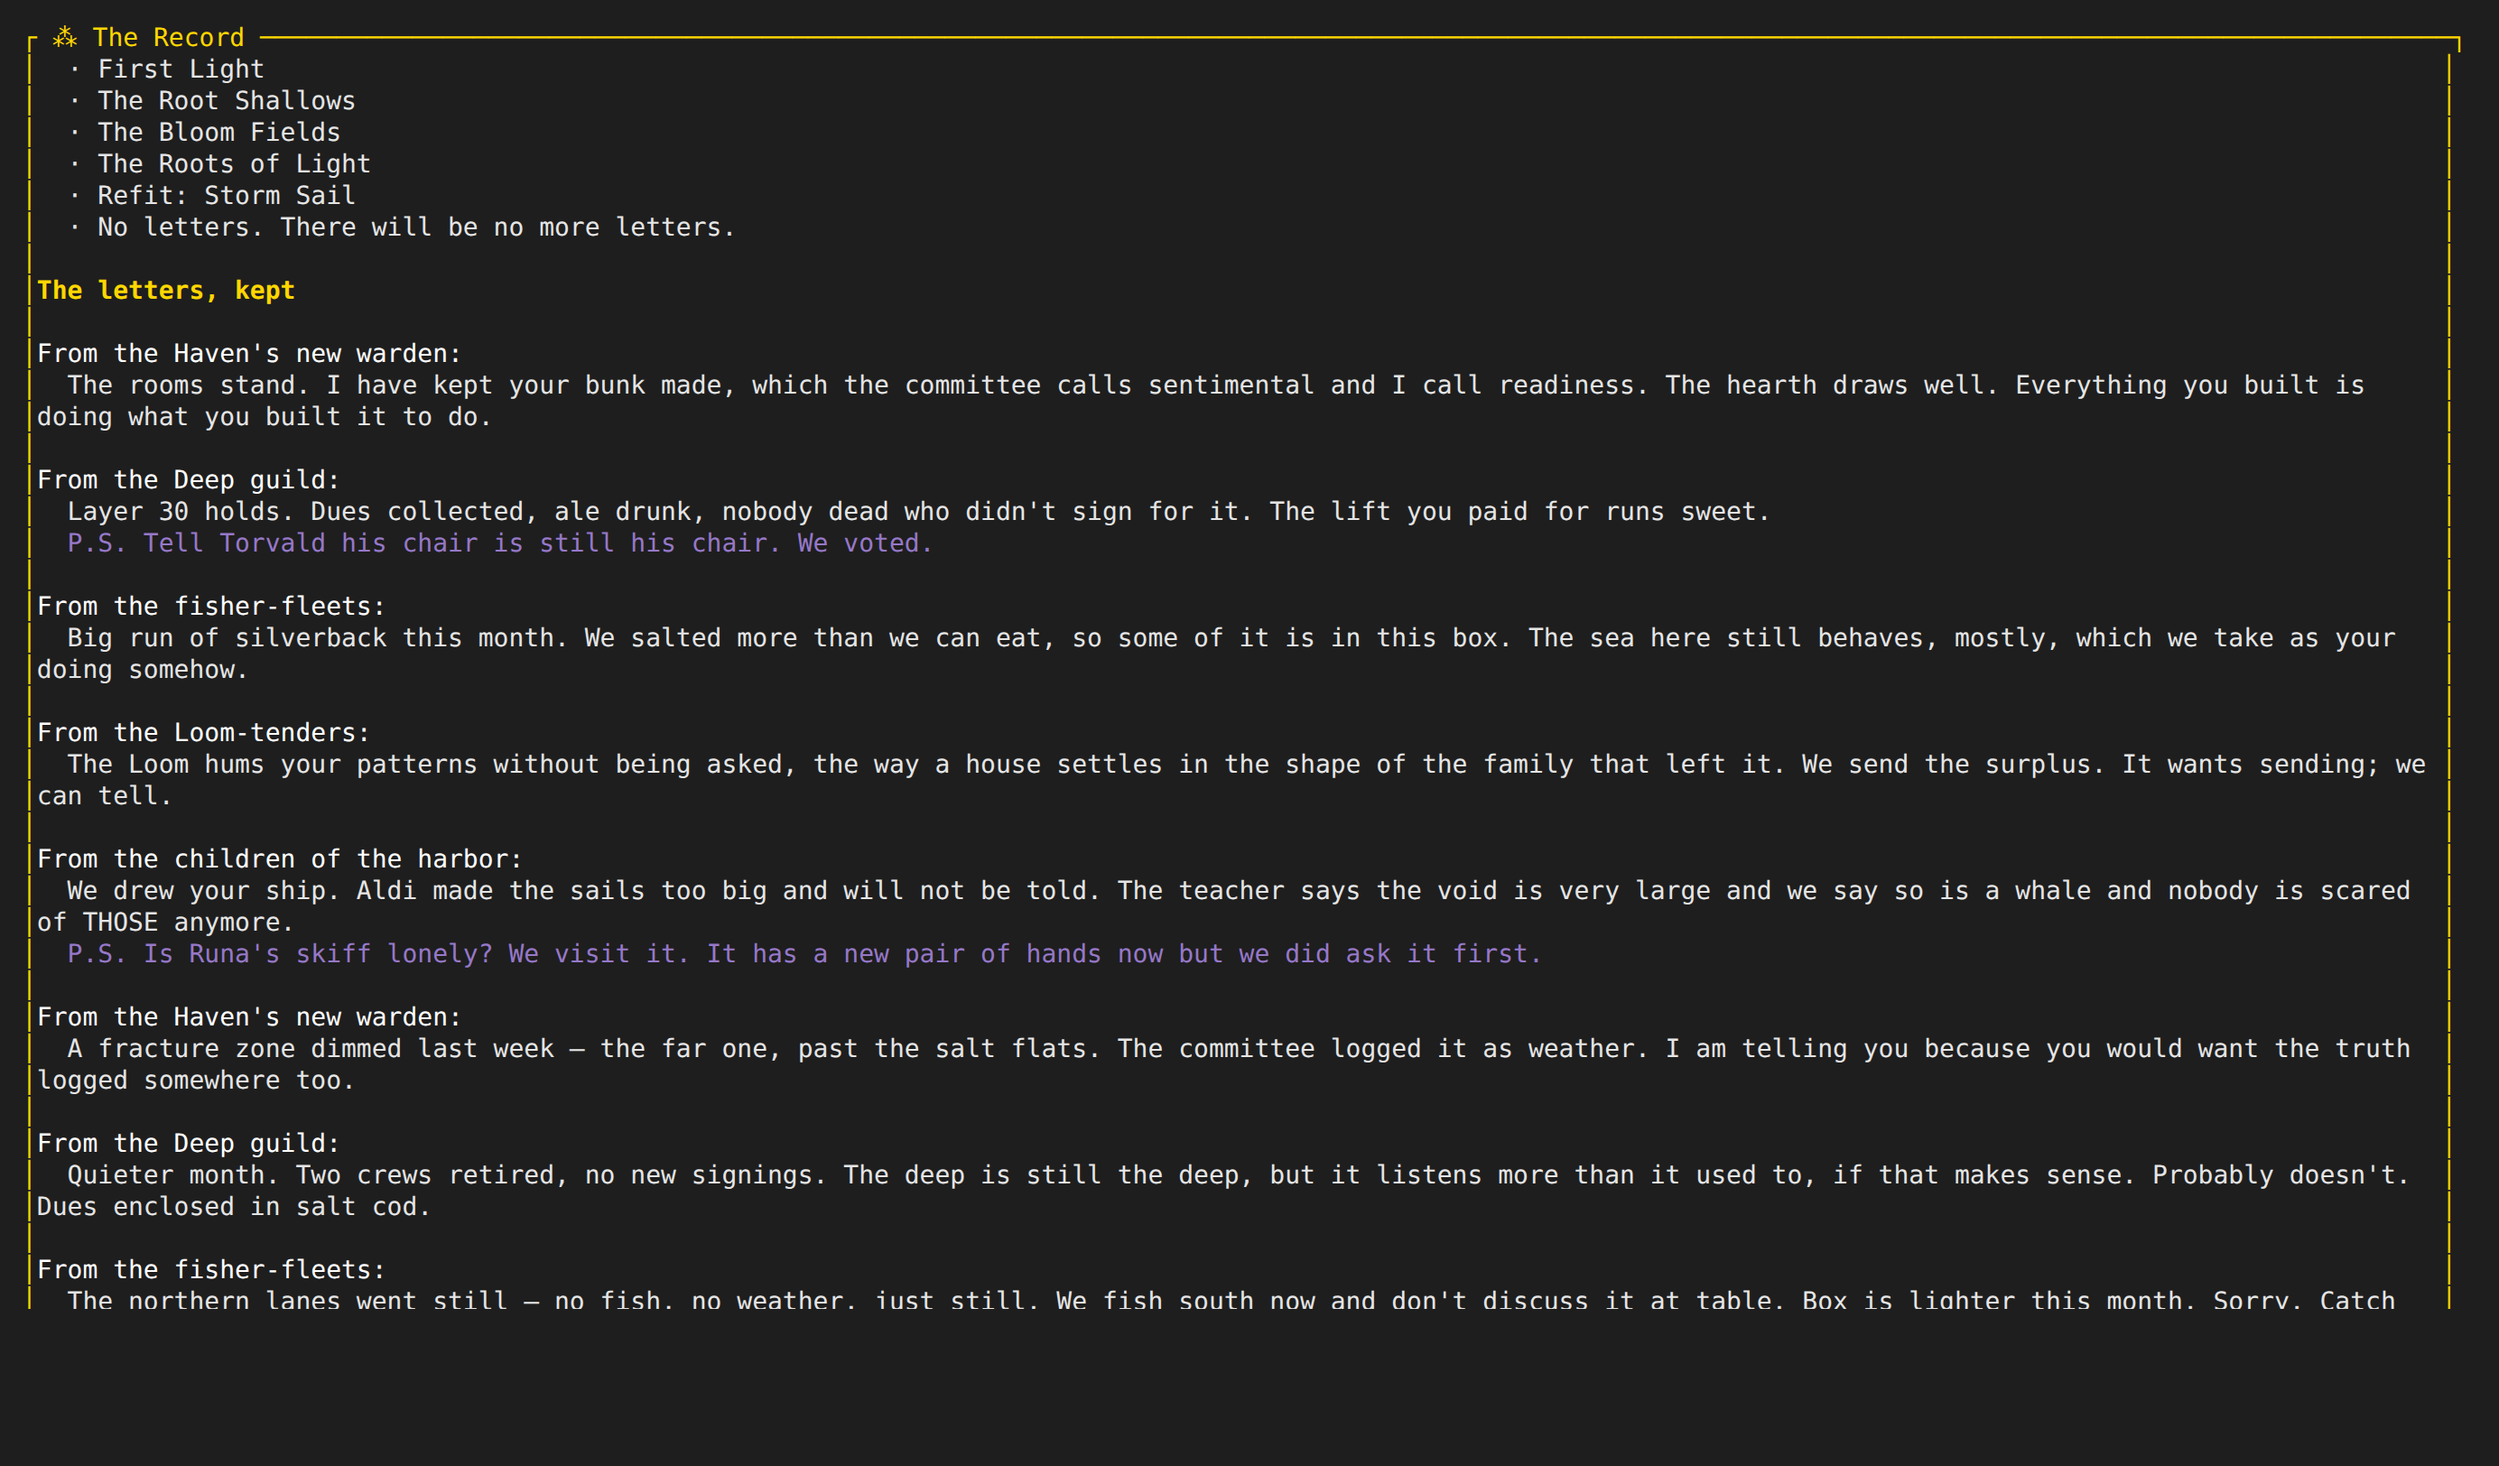
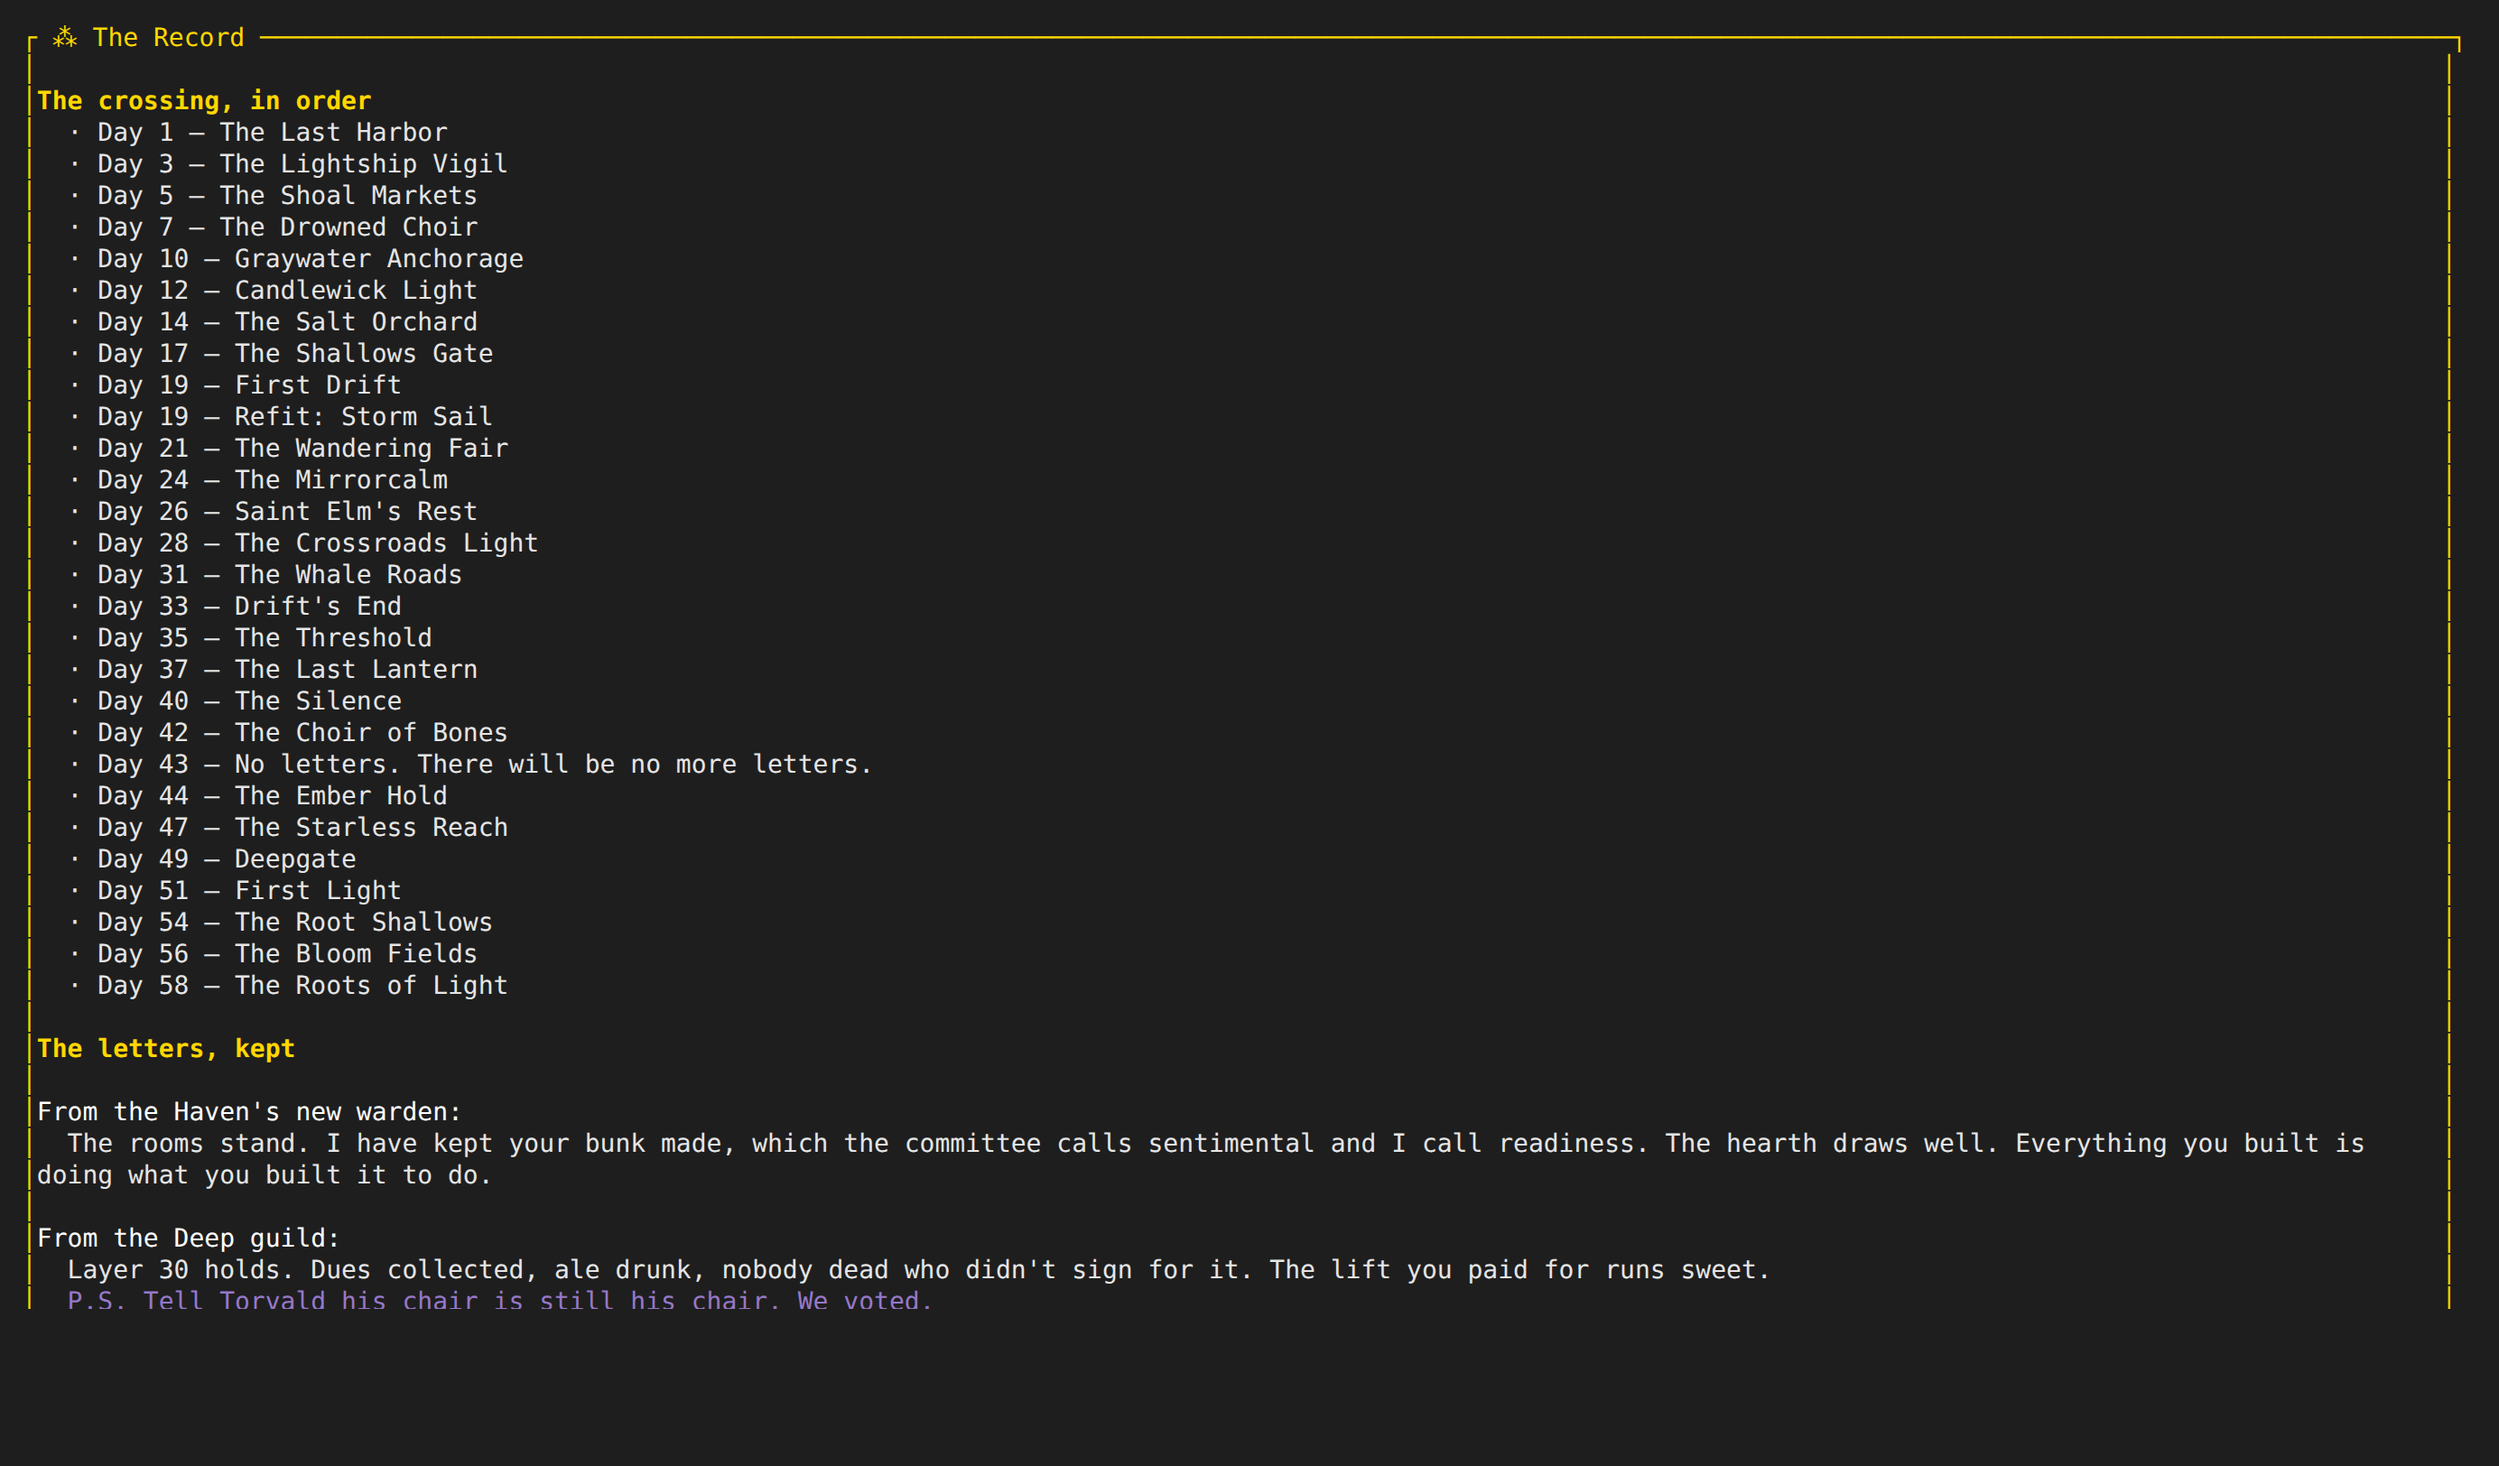
Act 2 spec 7: stamp every log entry with its voyage day
The log becomes Vec<LogEntry> — an untagged enum whose Dated variant
carries the day the line was written (all engine writes go through a
push_log helper reading day_index()), and whose Undated variant keeps
pre-spec-7 saves loading cleanly: bare strings deserialize as
day-unknown and render without a stamp. The Log panel and the Record
show "Day N — entry"; day numbering matches the vessel panel's
1-based display.

Tests: a real crossing writes only dated, non-decreasing entries
starting day 0; old string-array logs load undated and a mixed log
round-trips. The arrived fixture spreads its spine over ~60 days with
the refit and mail-fails beats woven in order.

Claude-Session: https://claude.ai/code/session_01WdCoxZ8TWyPjKwE5zssj5C

diff --git a/src/vessel/voyage.rs b/src/vessel/voyage.rs
@@ -198,6 +198,32 @@ pub struct SoulEvent {
     pub beat: u8,
 }
 
+/// One line of the ship's log, stamped with the voyage day it was
+/// written. Untagged so pre-spec-7 saves — bare strings — still load;
+/// their day is simply unknown.
+#[derive(Debug, Clone, PartialEq, Eq, Serialize, Deserialize)]
+#[serde(untagged)]
+pub enum LogEntry {
+    Dated { day: u64, text: String },
+    Undated(String),
+}
+
+impl LogEntry {
+    pub fn text(&self) -> &str {
+        match self {
+            LogEntry::Dated { text, .. } => text,
+            LogEntry::Undated(text) => text,
+        }
+    }
+
+    pub fn day(&self) -> Option<u64> {
+        match self {
+            LogEntry::Dated { day, .. } => Some(*day),
+            LogEntry::Undated(_) => None,
+        }
+    }
+}
+
 /// A resolved scene, ready to read: title, paragraphs (beats + matching
 /// color lines + ledger lines), and the payout in small print.
 #[derive(Debug, Clone, PartialEq, Eq)]
@@ -280,9 +306,10 @@ pub struct VoyageState {
     /// Mementos. No mechanics; the manifest remembers (spec 7).
     #[serde(default)]
     pub keepsakes: Vec<String>,
-    /// The crossing's story so far: one title per scene and beat.
+    /// The crossing's story so far: one line per scene and beat, each
+    /// stamped with the voyage day it was written.
     #[serde(default)]
-    pub log: Vec<String>,
+    pub log: Vec<LogEntry>,
     /// The leg that is underway (or just ended) included a drift.
     #[serde(default)]
     pub drifted_this_leg: bool,
@@ -506,7 +533,7 @@ impl VoyageState {
                                 if !self.heard_banks.contains(&wx.id) {
                                     self.heard_banks.push(wx.id);
                                     if self.grant_next_rumor(road.from) {
-                                        self.log.push(format!(
+                                        self.push_log(format!(
                                             "In {}, running Quiet, the crew heard \
                                              what the silence was hiding.",
                                             wx.name
@@ -636,7 +663,7 @@ impl VoyageState {
                 // The crew gathers at mail-hour, and nothing comes.
                 self.gone_dark = true;
                 self.lower_hope(MAIL_FAILS_HOPE_COST);
-                self.log.push(letters::MAIL_FAILS_LOG.to_string());
+                self.push_log(letters::MAIL_FAILS_LOG.to_string());
                 self.letter_events.push(MAIL_FAILS_EVENT);
             }
         }
@@ -828,7 +855,7 @@ impl VoyageState {
         }
 
         let title = route::waypoint(waypoint).name.to_string();
-        self.log.push(title.clone());
+        self.push_log(title.clone());
         self.drifted_this_leg = false;
 
         Some(ScenePlayback {
@@ -993,7 +1020,7 @@ impl VoyageState {
         }
         self.refit_doors_seen += 1;
         self.pending_refit = None;
-        self.log.push(format!("Refit: {}", chosen.display_name()));
+        self.push_log(format!("Refit: {}", chosen.display_name()));
         Some(chosen)
     }
 
@@ -1010,7 +1037,7 @@ impl VoyageState {
         let def = scenes::scene_def(ROUTE_SINK);
         self.hope = (self.hope + def.payout.hope.max(0) as u8).min(HOPE_MAX);
         let title = route::waypoint(ROUTE_SINK).name.to_string();
-        self.log.push(title.clone());
+        self.push_log(title.clone());
 
         let mut paragraphs: Vec<String> = def.beats.iter().map(|b| b.to_string()).collect();
         // The rail: souls who stepped ashore earlier said their goodbyes
@@ -1146,7 +1173,7 @@ impl VoyageState {
         if def.hope > 0 {
             self.hope = (self.hope + def.hope).min(HOPE_MAX);
         }
-        self.log.push(format!("A letter from {}", def.sender));
+        self.push_log(format!("A letter from {}", def.sender));
         self.letter_events.push(event);
     }
 
@@ -1247,7 +1274,7 @@ impl VoyageState {
             // Nothing left to learn: the night pays in spirits instead.
             self.hope = (self.hope + 1).min(HOPE_MAX);
         }
-        self.log.push(nights::log_line(kind, outcome, name));
+        self.push_log(nights::log_line(kind, outcome, name));
     }
 
     /// Learn the next authored rumor not yet held (weather, nights, and
@@ -1303,8 +1330,7 @@ impl VoyageState {
         self.hailed.push(ship.id);
         let at = self.current_road().map(|r| r.from).unwrap_or(ROUTE_START);
         self.grant_next_rumor(at);
-        self.log
-            .push(format!("Hailed {}. {}", ship.name, ship.hail));
+        self.push_log(format!("Hailed {}. {}", ship.name, ship.hail));
         Some(ship)
     }
 
@@ -1475,6 +1501,12 @@ impl VoyageState {
     /// Days since launch (the seed input for Underway determinism).
     pub fn day_index(&self) -> u64 {
         self.processed_minutes / MINUTES_PER_DAY
+    }
+
+    /// Write a line into the ship's log, stamped with today.
+    fn push_log(&mut self, text: String) {
+        let day = self.day_index();
+        self.log.push(LogEntry::Dated { day, text });
     }
 
     /// Game minutes until arrival at the current trim, if traveling.

diff --git a/src/ui/voyage_scene.rs b/src/ui/voyage_scene.rs
@@ -1075,7 +1075,7 @@ fn render_rumor_panel(frame: &mut Frame, area: Rect, voyage: &VoyageState) {
         voyage
             .log
             .iter()
-            .filter(|l| l.starts_with("A letter from"))
+            .filter(|l| l.text().starts_with("A letter from"))
             .count(),
     );
     if letters_kept > 0 || voyage.gone_dark {
@@ -1098,9 +1098,9 @@ fn render_rumor_panel(frame: &mut Frame, area: Rect, voyage: &VoyageState) {
                 .add_modifier(Modifier::BOLD),
         )));
         let recent = voyage.log.len().saturating_sub(8);
-        for title in &voyage.log[recent..] {
+        for entry in &voyage.log[recent..] {
             lines.push(Line::from(Span::styled(
-                format!("  \u{00b7} {title}"),
+                format!("  \u{00b7} {}", log_entry_line(entry)),
                 Style::default().fg(Color::Gray),
             )));
         }
@@ -1747,7 +1747,7 @@ fn render_record(frame: &mut Frame, area: Rect, voyage: &VoyageState, scroll: u1
     )));
     for entry in &voyage.log {
         lines.push(Line::from(Span::styled(
-            format!("  \u{00b7} {entry}"),
+            format!("  \u{00b7} {}", log_entry_line(entry)),
             Style::default().fg(Color::Gray),
         )));
     }
@@ -1852,6 +1852,15 @@ fn current_chapter(voyage: &VoyageState) -> route::Chapter {
 /// The most recently reached waypoint (for chapter/tree-stage display).
 fn last_position(voyage: &VoyageState) -> WaypointId {
     voyage.visited.last().copied().unwrap_or(route::ROUTE_START)
+}
+
+/// A log line with its day, when the entry knows one (pre-spec-7 saves
+/// carry undated lines).
+fn log_entry_line(entry: &crate::vessel::voyage::LogEntry) -> String {
+    match entry.day() {
+        Some(day) => format!("Day {} \u{2014} {}", day + 1, entry.text()),
+        None => entry.text().to_string(),
+    }
 }
 
 fn format_minutes(minutes: u64) -> String {

diff --git a/tests/arrival_tests.rs b/tests/arrival_tests.rs
@@ -188,6 +188,42 @@ fn the_act_three_gate_defaults_closed_and_persists() {
 }
 
 #[test]
+fn the_log_keeps_time() {
+    let v = cross();
+    // Every line a real crossing writes knows its day, and the days
+    // never run backwards.
+    let mut last_day = 0;
+    assert!(!v.log.is_empty());
+    for entry in &v.log {
+        let day = entry.day().expect("new entries are dated");
+        assert!(day >= last_day, "the log reads in order");
+        last_day = day;
+    }
+    assert_eq!(v.log.first().unwrap().day(), Some(0), "the pier is day 0");
+    assert!(last_day >= 20, "the crossing took real time");
+}
+
+#[test]
+fn old_logs_load_undated_and_still_read() {
+    let v = VoyageState::begin("old-log".to_string(), 1, t0());
+    let mut json: serde_json::Value = serde_json::to_value(&v).unwrap();
+    json["log"] = serde_json::json!(["The Last Harbor", "A letter from home"]);
+    let loaded: VoyageState = serde_json::from_value(json).unwrap();
+    assert_eq!(loaded.log.len(), 2);
+    assert_eq!(loaded.log[0].text(), "The Last Harbor");
+    assert_eq!(loaded.log[0].day(), None, "old lines don't invent a day");
+    // And a mixed log — old lines plus new — round-trips intact.
+    let mut mixed = loaded;
+    mixed.log.push(quest::vessel::voyage::LogEntry::Dated {
+        day: 12,
+        text: "The Threshold".to_string(),
+    });
+    let reloaded: VoyageState =
+        serde_json::from_value(serde_json::to_value(&mixed).unwrap()).unwrap();
+    assert_eq!(reloaded.log, mixed.log);
+}
+
+#[test]
 fn every_soul_has_a_rail_line() {
     for def in &quest::vessel::souls::SOULS {
         assert!(

diff --git a/src/fixtures.rs b/src/fixtures.rs
@@ -449,7 +449,7 @@ pub fn voyage_arrived(
     use crate::vessel::route::{waypoint, RumorId, ROUTE_SINK};
     use crate::vessel::souls::{SoulId, Station};
     use crate::vessel::voyage::{
-        LearnedRumor, SoulState, SoulStatus, VoyagePhase, MINUTES_PER_DAY,
+        LearnedRumor, LogEntry, SoulState, SoulStatus, VoyagePhase, MINUTES_PER_DAY,
     };
 
     let mut v = voyage_holding_at(character_id, ROUTE_SINK, 60, 40.0, now);
@@ -502,13 +502,33 @@ pub fn voyage_arrived(
         rumor: RumorId(1),
         learned_at: v.visited.get(1).copied().unwrap_or(ROUTE_SINK),
     }];
+    // ~60 days over the visited spine, a little over two days per port.
+    let ports = v.visited.len().max(1) as u64;
     v.log = v
         .visited
         .iter()
-        .map(|w| waypoint(*w).name.to_string())
+        .enumerate()
+        .map(|(i, w)| LogEntry::Dated {
+            day: i as u64 * 60 / ports,
+            text: waypoint(*w).name.to_string(),
+        })
         .collect();
-    v.log.push("Refit: Storm Sail".to_string());
-    v.log
-        .push("No letters. There will be no more letters.".to_string());
+    for (day, text) in [
+        (18, "Refit: Storm Sail"),
+        (42, "No letters. There will be no more letters."),
+    ] {
+        let at = v
+            .log
+            .iter()
+            .position(|e| e.day().is_some_and(|d| d > day))
+            .unwrap_or(v.log.len());
+        v.log.insert(
+            at,
+            LogEntry::Dated {
+                day,
+                text: text.to_string(),
+            },
+        );
+    }
     v
 }

diff --git a/tests/letters_tests.rs b/tests/letters_tests.rs
@@ -119,7 +119,7 @@ fn letters_pay_their_parcel_and_hope_exactly_once() {
     let events = v.take_letter_events();
     assert_eq!(events, vec![0]);
     assert!(v.take_letter_events().is_empty(), "drained once");
-    assert!(v.log.iter().any(|l| l.contains("A letter from")));
+    assert!(v.log.iter().any(|l| l.text().contains("A letter from")));
 }
 
 #[test]

diff --git a/tests/underway_tests.rs b/tests/underway_tests.rs
@@ -164,7 +164,7 @@ fn hailing_a_pilgrim_happens_once_and_pays_in_rumors() {
     assert!(v.rumors.len() > rumors_before);
     assert!(v.hailable().is_none(), "once per ship");
     assert!(v.hail().is_none());
-    assert!(v.log.iter().any(|l| l.contains("Sister Verity")));
+    assert!(v.log.iter().any(|l| l.text().contains("Sister Verity")));
 }
 
 #[test]
